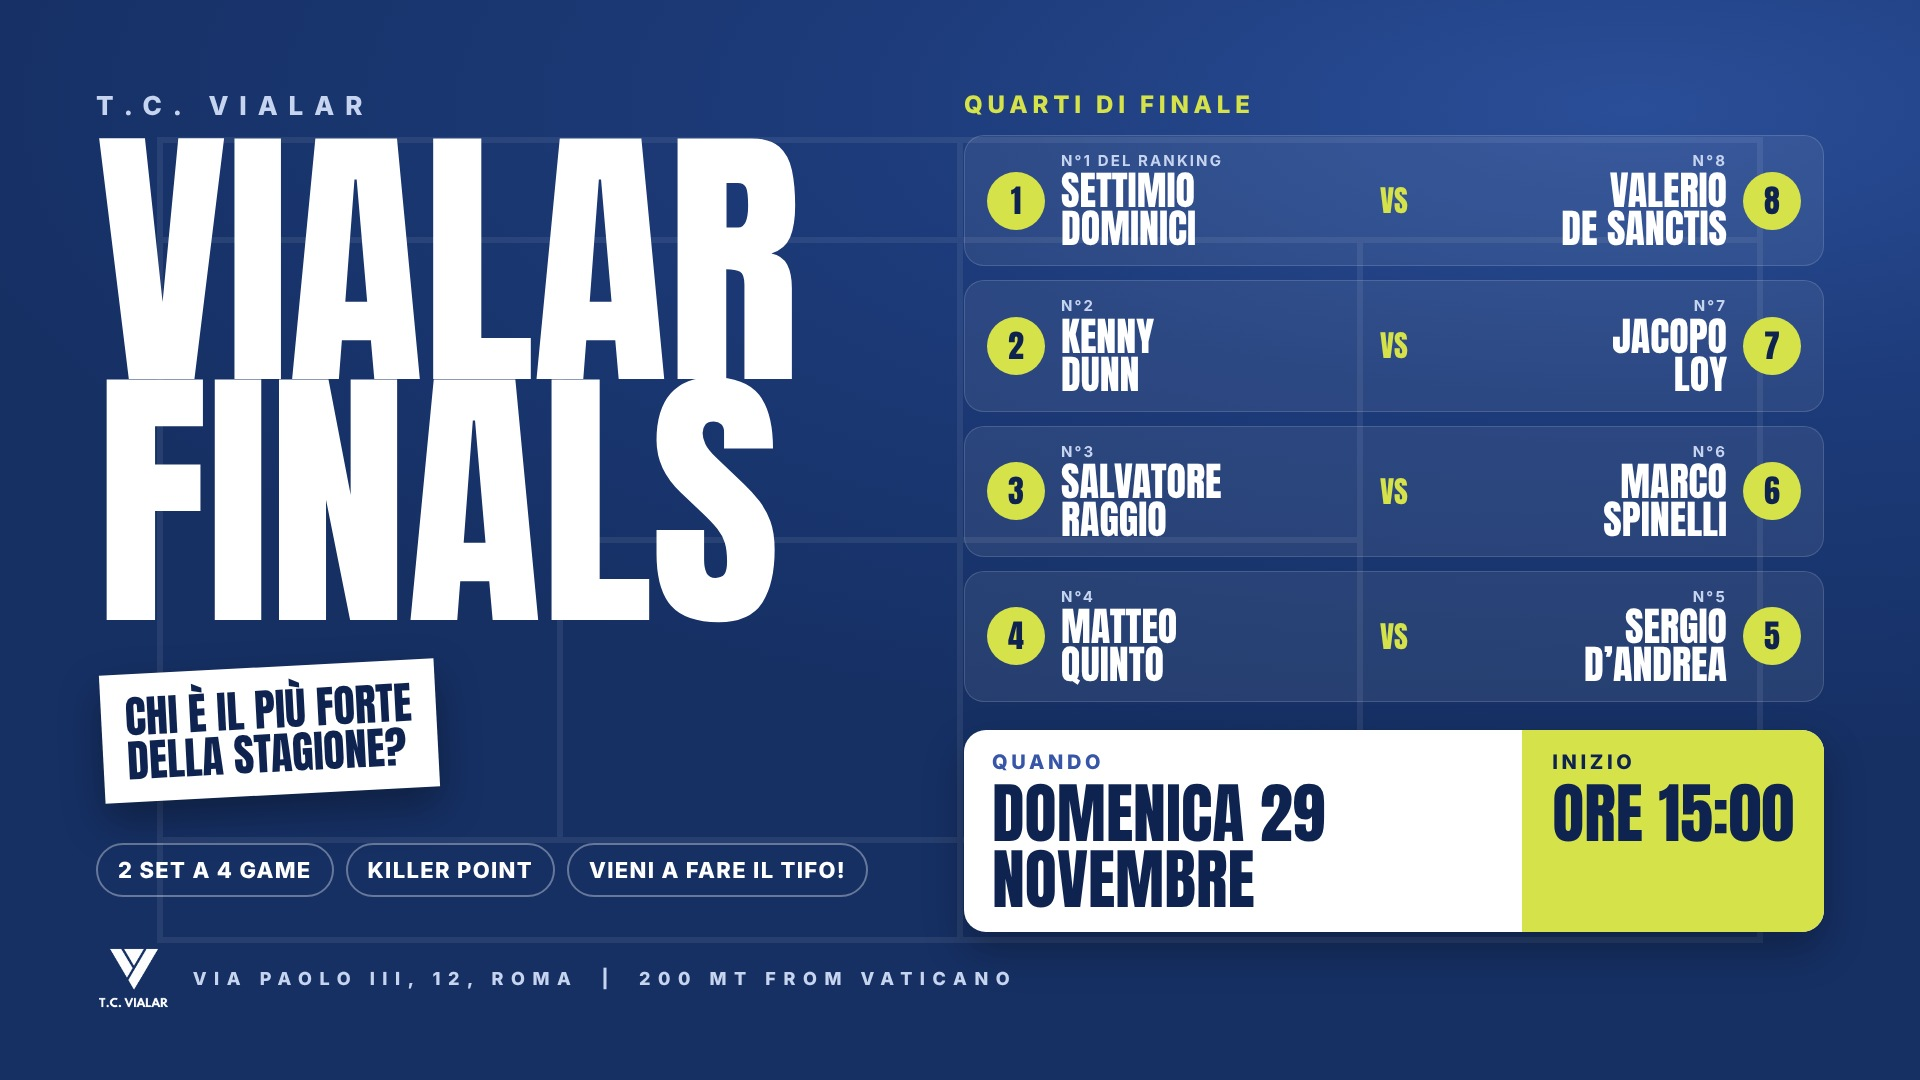
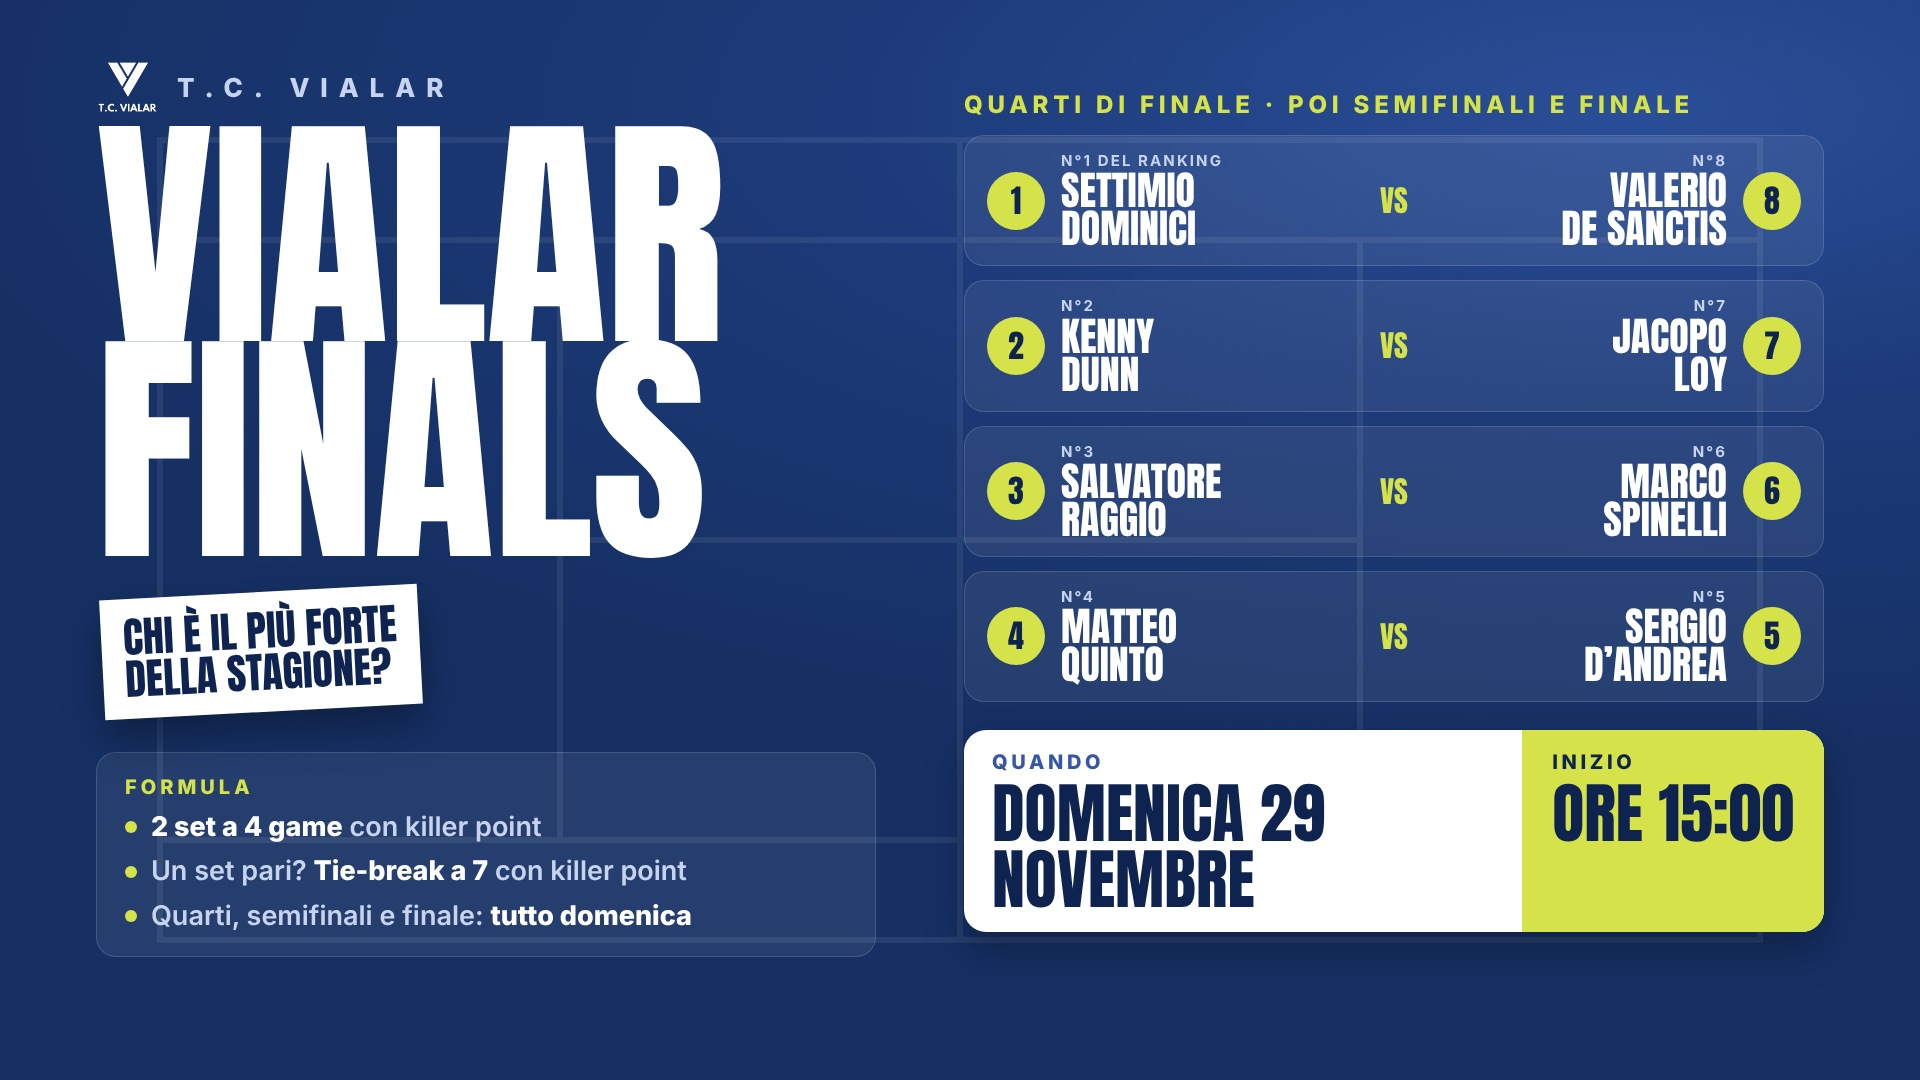
Vialar Finals: formula con tie-break e tabellone completo in giornata
Claude-Session: https://claude.ai/code/session_01RiKwXfL3cXiyz9fxQWK2tk

diff --git a/index.html b/index.html
@@ -647,7 +647,7 @@ const BACHECA = {
     { testo: "Scuola Adulti · II trimestre: il rinnovo è automatico. Chi non vuole rinnovare lo comunica in segreteria entro lunedì 23 novembre, pagamento entro venerdì 27 novembre. Pausa natalizia dal 24 dicembre al 4 gennaio", finoAl: "2026-11-27" },
     { testo: "Sabato 21 novembre ore 11:00 · Body Flow: open day gratuito di pilates, ingresso libero per tutti e tutte", finoAl: "2026-11-21" },
     { testo: "Sabato 28 novembre ore 11:00 · Body Flow, secondo appuntamento di pilates: lezione singola 10 €, pacchetto 4 lezioni in 30 giorni 30 €. Info in segreteria", finoAl: "2026-11-28" },
-    { testo: "Domenica 29 novembre ore 15:00 · Vialar Finals: i migliori 8 della stagione si sfidano per il titolo. Quarti: Dominici–De Sanctis, Dunn–Loy, Raggio–Spinelli, Quinto–D'Andrea. Vieni a fare il tifo!", finoAl: "2026-11-29" },
+    { testo: "Domenica 29 novembre ore 15:00 · Vialar Finals: i migliori 8 della stagione si sfidano per il titolo, dai quarti alla finale in giornata. Quarti: Dominici–De Sanctis, Dunn–Loy, Raggio–Spinelli, Quinto–D'Andrea. Vieni a fare il tifo!", finoAl: "2026-11-29" },
     { testo: "Sabato 21 novembre 8:00-14:00 · Move better, play better: valutazione fisioterapica gratuita di 30 minuti, sono rimasti solo 4 posti! Prenota in segreteria", finoAl: "2026-11-21" }
   ],
   /* Torneo Sociale in primo piano: queste categorie girano molto più spesso (iscritti + info), fino al giorno indicato compreso */
